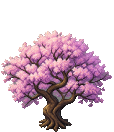
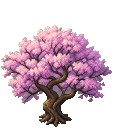
fix(p27b): tree art sank 5px into the ground; keep the shipped foot padding
Real regression from my own CP2/CP5 art, caught by MapForgeP22ContractTest and not by
any test I had written:

  authoredTreesPreserveExactCanvasAndAlpha128FootRowOffsets
    expected:<126> but was:<131>

Cause: for trees, ObliqueSpriteGeometry.drawFootOffset() IS
bounds(image).bottomPadding * pixelScale. The P03/P18 art was authored with 5 transparent
rows under the canopy (and 1 for the oak, 3 for the barrels); my re-cut filled the
bottom of the canvas, so every tree drew ~5 px lower and its trunk went into the ground.

Fixed in the pipeline instead of the test: to_canvas() now takes foot_pad and reserves
that many transparent rows, and foot_pad is READ from the shipped sprite it replaces, so
it cannot be invented. Measured, all 20 shipped sprites now match their predecessor:
canopy_a 5, pine 5, oak 1, barrels 3, everything else 0 (houses are bottom-anchored).

Added vegetationKeepsTheShippedGroundOffset to P27BStructureContractTest so a future
re-cut fails in the P27B suite too, not only in the P22 suite.

Note: 'PASS' on canvas/alpha/pivot checks was never enough - those pass with the sprite
floating. The foot offset needed its own assertion.

diff --git a/app/src/test/java/com/example/P27BStructureContractTest.kt b/app/src/test/java/com/example/P27BStructureContractTest.kt
@@ -174,6 +174,32 @@ class P27BStructureContractTest {
     }
   }
 
+  /**
+   * The tree foot padding is not decoration: `ObliqueSpriteGeometry.drawFootOffset()` for a
+   * tree IS `bounds(image).bottomPadding * pixelScale`. The P27B-V5 tree re-cut filled the
+   * bottom rows of the canvas, so every tree drew ~5 px lower and the foot sank into the
+   * ground. It was caught by MapForgeP22ContractTest (bottom 131, expected 126).
+   *
+   * Houses are anchored to their bottom row, so they legitimately have 0 padding; this test
+   * only pins the sprites where the number is load-bearing.
+   */
+  @Test
+  fun vegetationKeepsTheShippedGroundOffset() {
+    val expected = mapOf("canopy_a" to 5, "pine" to 5, "oak" to 1)
+    for ((name, pad) in expected) {
+      val bytes = assetBytes("sanctuary_p27b_2/structures/$name.png")
+      val png = BitmapFactory.decodeByteArray(bytes, 0, bytes.size)!!
+      var lastOpaqueRow = -1
+      for (y in 0 until png.height) {
+        for (x in 0 until png.width) {
+          if ((png.getPixel(x, y) ushr 24) > 128) { lastOpaqueRow = y; break }
+        }
+      }
+      val actual = png.height - 1 - lastOpaqueRow
+      assertEquals("$name must keep the shipped $pad-row ground offset", pad, actual)
+    }
+  }
+
   /** The runtime must actually bind the new art, not silently fall back to P03. */
   @Test
   fun runtimeBindsP27BHousesAndProps() {

diff --git a/tools/p27b_structures_next.py b/tools/p27b_structures_next.py
@@ -135,10 +135,34 @@ def crop_to_content(image: Image.Image, margin: int = 2) -> Image.Image:
                        min(image.width, right + margin), min(image.height, bottom + margin)))
 
 
-def to_canvas(image: Image.Image, size: tuple[int, int]) -> Image.Image:
-    """Fit the building into the inherited canvas, anchored to the bottom-centre pivot."""
+def foot_padding(path: Path) -> int:
+    """Rows of fully transparent pixels at the bottom of a shipped sprite.
+
+    This is not cosmetic. For trees, `ObliqueSpriteGeometry.drawFootOffset()` IS this
+    number (`bounds(image).bottomPadding * pixelScale`), so a re-cut tree with 0 padding
+    draws 5 px lower than the art was authored against and sinks into the ground. Caught
+    by MapForgeP22ContractTest, which is why the new art must inherit it, not re-invent it.
+    """
+    if not path.is_file():
+        return 0
+    alpha = Image.open(path).convert('RGBA').getchannel('A')
+    width, height = alpha.size
+    px = alpha.load()
+    for y in range(height - 1, -1, -1):
+        if any(px[x, y] > 128 for x in range(width)):
+            return height - 1 - y
+    return height
+
+
+def to_canvas(image: Image.Image, size: tuple[int, int], foot_pad: int = 0) -> Image.Image:
+    """Fit the building into the inherited canvas, anchored to the bottom-centre pivot.
+
+    `foot_pad` keeps the SHIPPED number of transparent rows under the sprite, because the
+    renderer derives the tree foot offset from it (see foot_padding()).
+    """
     content = crop_to_content(image)
-    scale = min(size[0] / content.width, size[1] / content.height)
+    usable_h = max(1, size[1] - foot_pad)
+    scale = min(size[0] / content.width, usable_h / content.height)
     # 0.98 keeps a one-pixel transparent rim so no cut edge sits exactly on the canvas
     # border, which is where the renderer's shadow silhouette would smear.
     target = (max(1, int(content.width * scale * 0.98)),
@@ -148,9 +172,16 @@ def to_canvas(image: Image.Image, size: tuple[int, int]) -> Image.Image:
     resized.putalpha(resized.getchannel('A').point(lambda v: 255 if v >= 128 else 0))
     canvas = Image.new('RGBA', size, (0, 0, 0, 0))
     x = (size[0] - resized.width) // 2
-    y = size[1] - resized.height
+    y = size[1] - foot_pad - resized.height
     canvas.paste(resized, (x, y))
     return canvas
+
+
+def inherited_foot_pad(*candidates: Path) -> int:
+    for candidate in candidates:
+        if candidate.is_file():
+            return foot_padding(candidate)
+    return 0
 
 
 def slice_items(cut: Image.Image) -> list[Image.Image]:
@@ -205,7 +236,7 @@ def main() -> None:
             print(f'skip {name}: no source')
             continue
         cut = neutral_background_cutout(Image.open(source_path))
-        canvas = to_canvas(cut, spec['size'])
+        canvas = to_canvas(cut, spec['size'], inherited_foot_pad(OLD / spec['replaces']))
         out_path = OUT / spec['file']
         canvas.save(out_path, optimize=True)
         old_path = OLD / spec['replaces']
@@ -234,7 +265,7 @@ def main() -> None:
         if len(items) != len(PROP_SPECS):
             raise SystemExit(f'prop sheet: expected {len(PROP_SPECS)} items, sliced {len(items)}')
         for (name, _index, size, replaces), item in zip(PROP_SPECS, items):
-            canvas = to_canvas(item, size)
+            canvas = to_canvas(item, size, inherited_foot_pad(OLD / f'{replaces}.png'))
             out_path = OUT / f'{replaces}.png'
             canvas.save(out_path, optimize=True)
             old_path = OLD / f'{replaces}.png'
@@ -263,7 +294,8 @@ def main() -> None:
         if not source_path.is_file():
             print(f'skip {name}: no source')
             continue
-        canvas = to_canvas(neutral_background_cutout(Image.open(source_path)), spec['size'])
+        canvas = to_canvas(neutral_background_cutout(Image.open(source_path)), spec['size'],
+                           inherited_foot_pad(premium / f'{spec["replaces_premium"]}.png'))
         out_path = OUT / spec['file']
         canvas.save(out_path, optimize=True)
         old_path = premium / f'{spec["replaces_premium"]}.png'
@@ -292,7 +324,9 @@ def main() -> None:
         if not source_path.is_file():
             print(f'skip {name}: no source')
             continue
-        canvas = to_canvas(neutral_background_cutout(Image.open(source_path)), spec['size'])
+        canvas = to_canvas(neutral_background_cutout(Image.open(source_path)), spec['size'],
+                           inherited_foot_pad(premium / f'{spec.get("replaces_premium", "")}.png',
+                                              OLD / f'{spec.get("replaces", "")}.png'))
         out_path = OUT / spec['file']
         canvas.save(out_path, optimize=True)
         if 'replaces_premium' in spec:
@@ -327,7 +361,8 @@ def main() -> None:
         if len(trees) != len(TREE_SPECS):
             raise SystemExit(f'tree sheet: expected {len(TREE_SPECS)} items, sliced {len(trees)}')
         for (name, _index, size, replaces), item in zip(TREE_SPECS, trees):
-            canvas = to_canvas(item, size)
+            # Trees MUST keep the shipped foot padding: it is the draw offset.
+            canvas = to_canvas(item, size, inherited_foot_pad(OLD / f'{replaces}.png'))
             out_path = OUT / f'{replaces}.png'
             canvas.save(out_path, optimize=True)
             old_path = OLD / f'{replaces}.png'
